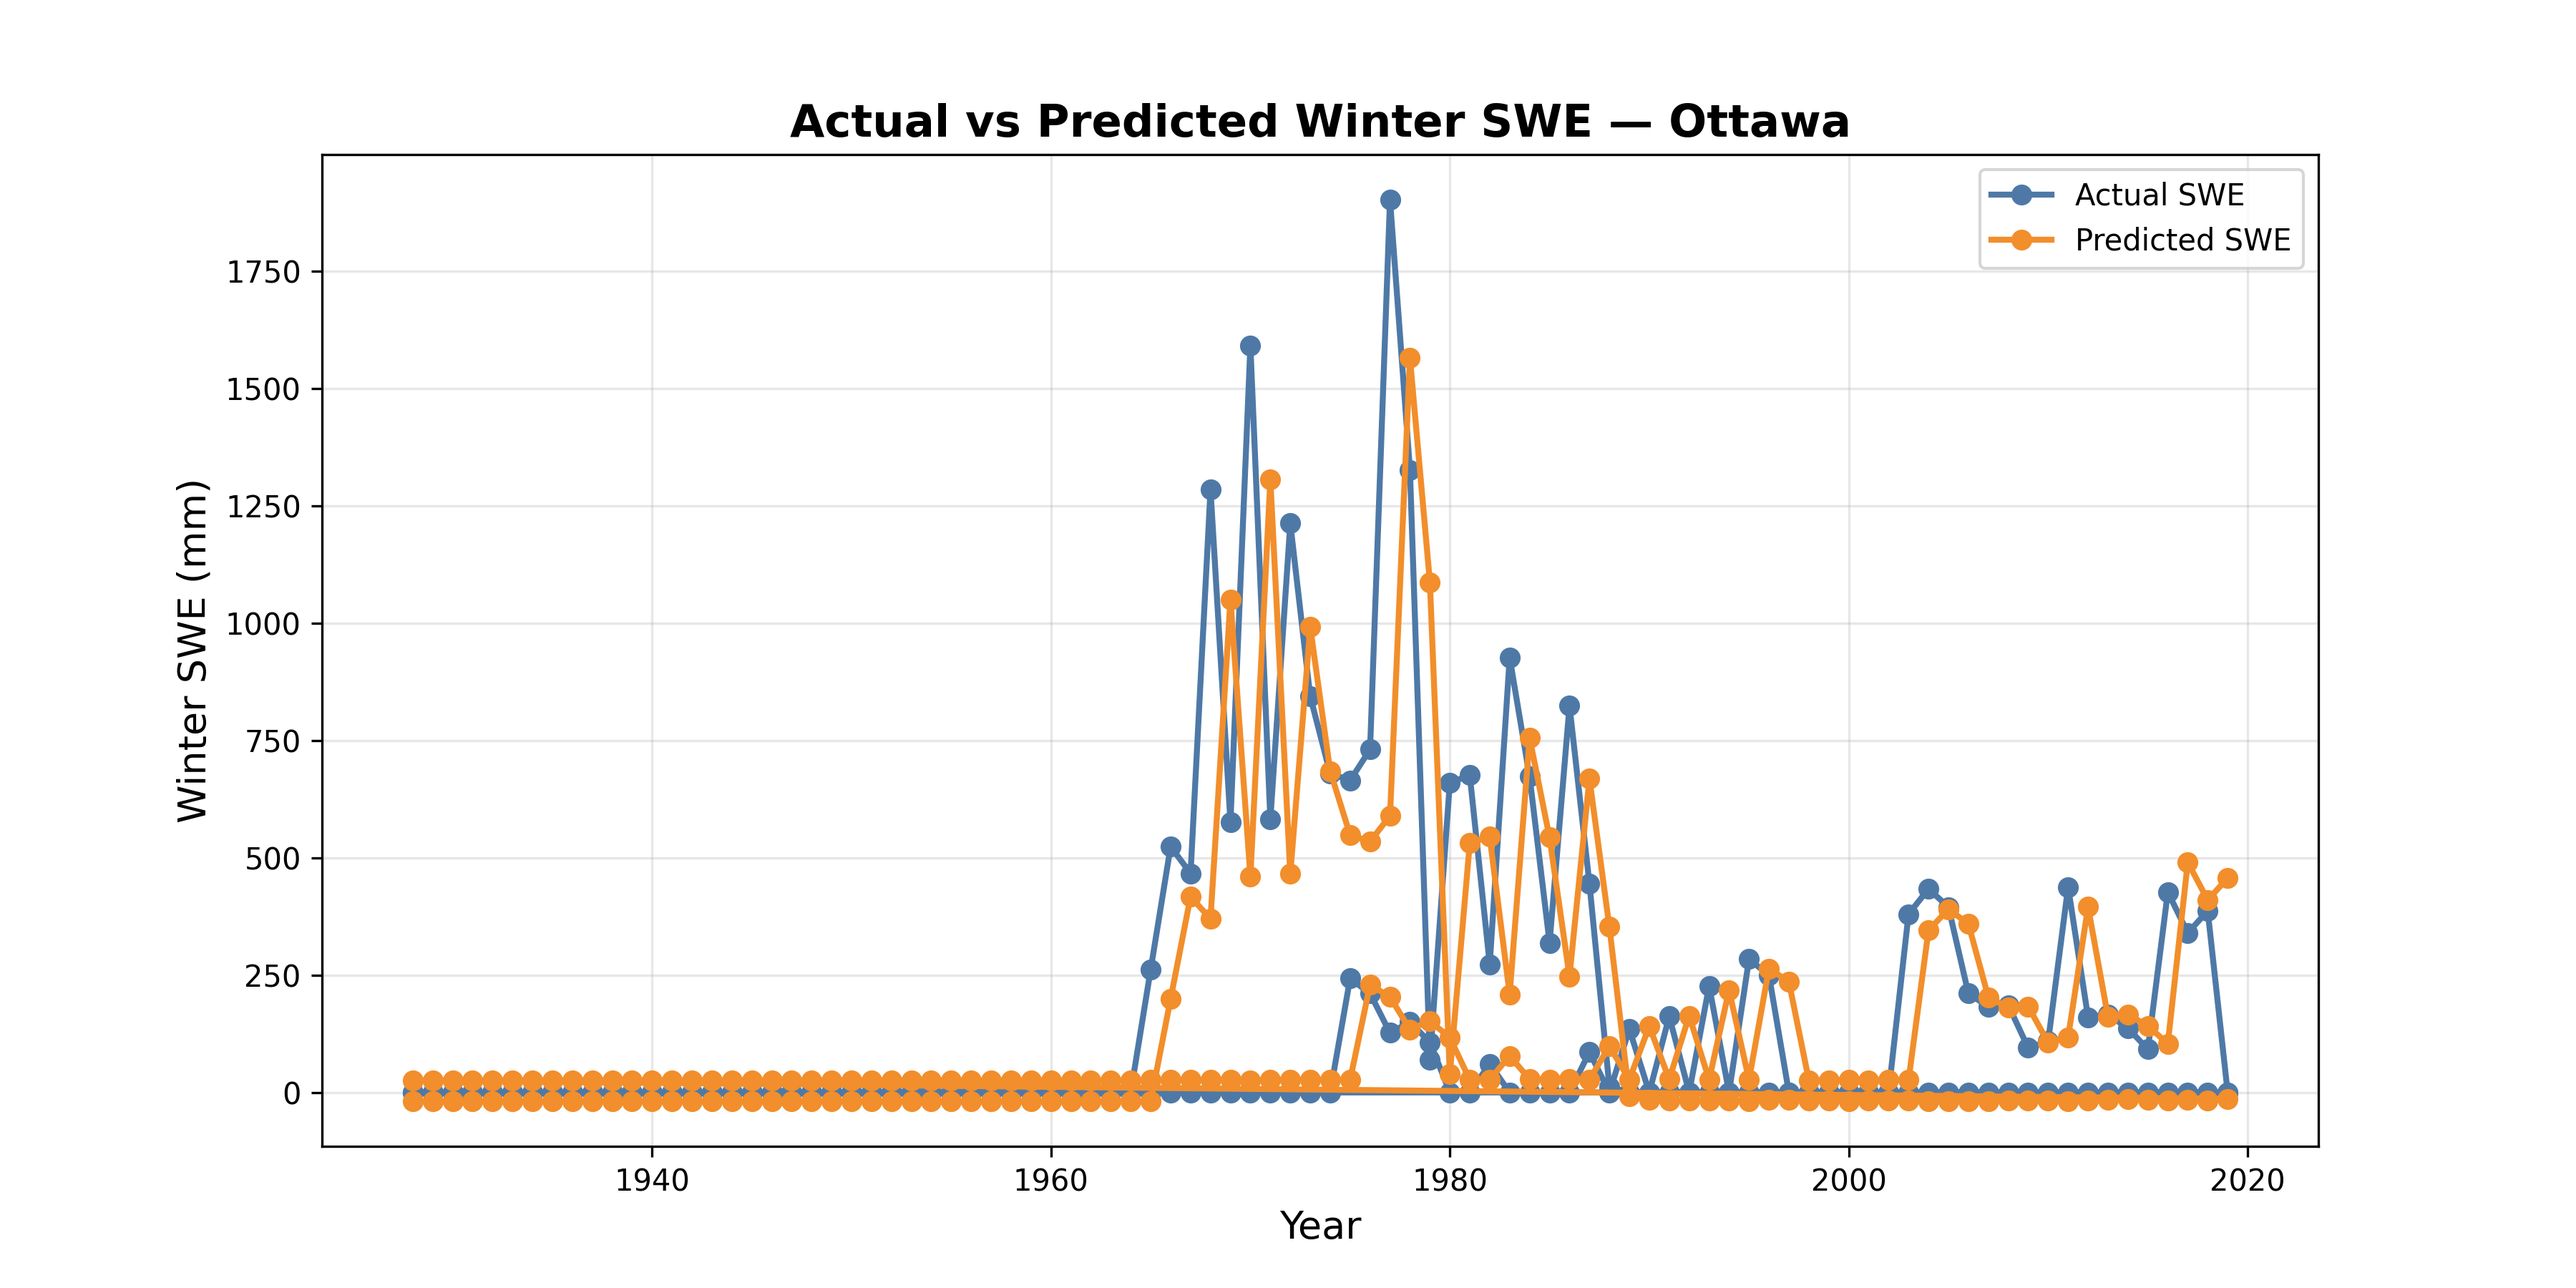
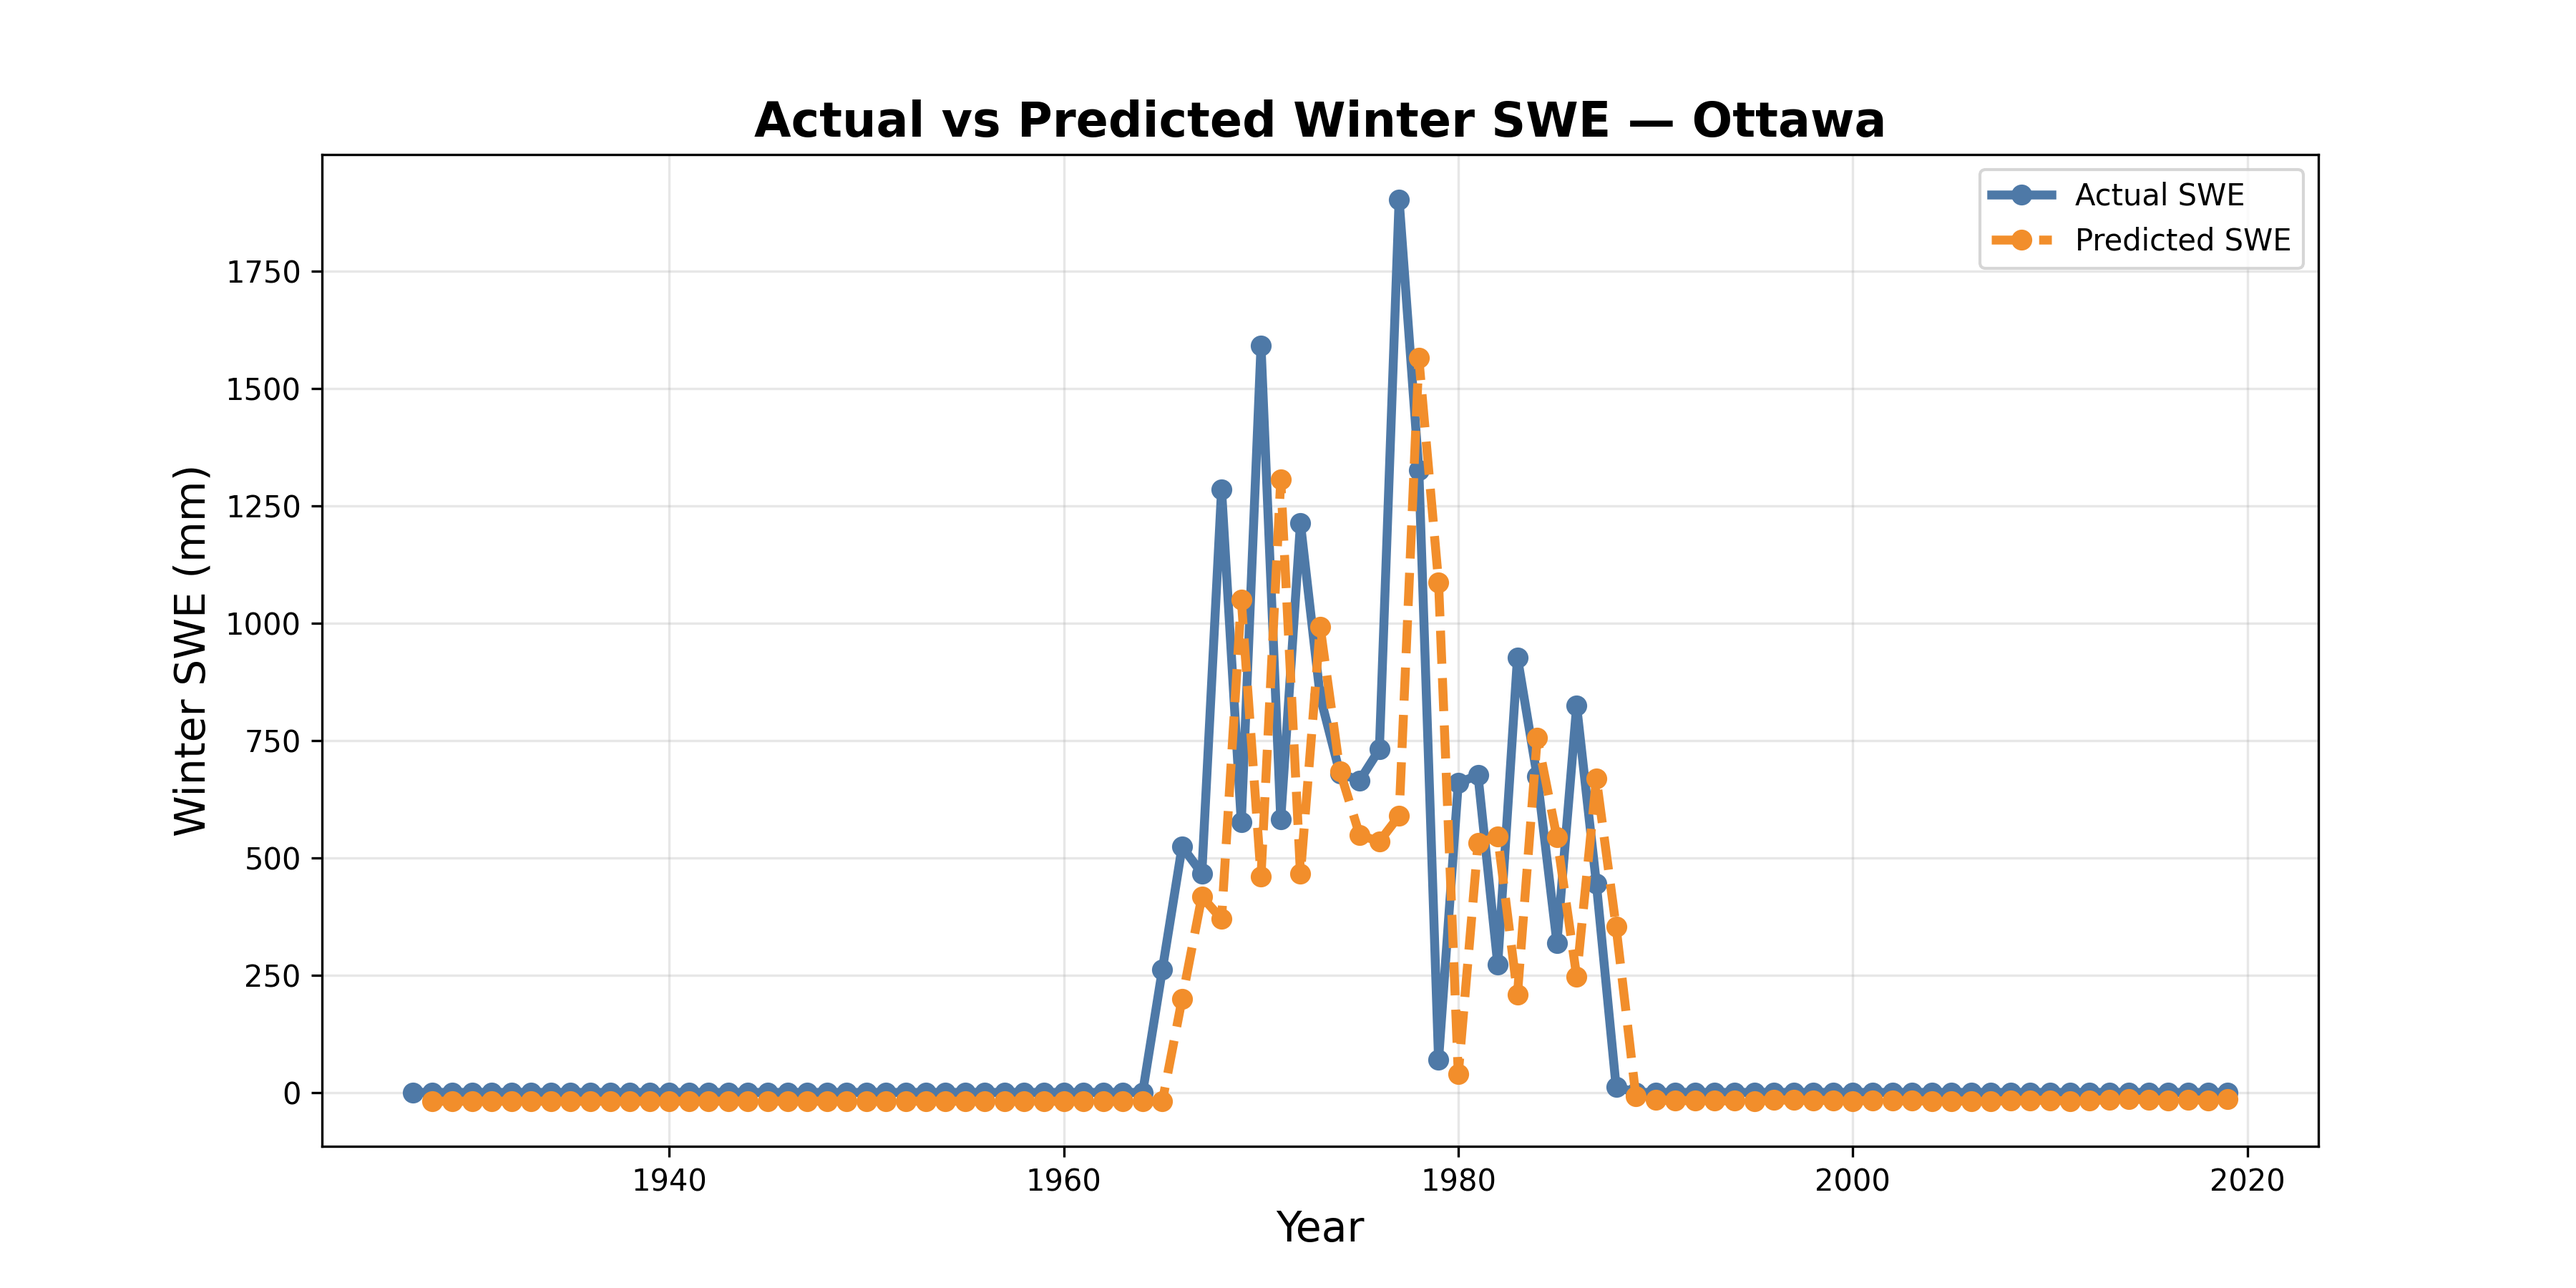
ottawa prediction fix

diff --git a/snow_prediction.py b/snow_prediction.py
@@ -320,61 +320,101 @@ def plot_feature_importance_linear(model, feature_names):
     print(f"✓ Saved feature importance plot: {out_path}")
 
 # ========================================================================
-# PREDICTIVE BLOCK 7 — Per-City Prediction Plot (OTTAWA)
+# PREDICTIVE BLOCK 7 — Clean Per-City Prediction Plot (OTTAWA)
 # ========================================================================
 
 def plot_city_predictions(merged_df, model, features_df, city_name="OTTAWA"):
     """
-    Plots actual vs predicted SWE over time for a specific city.
-    Uses the model to generate predictions across all years for that city.
+    Plots actual vs predicted SWE for a specific city using a single
+    dominant station to avoid duplicates. No forecasting. No double data.
     """
 
-    # Filter merged dataset for OTTAWA-like stations
+    # -----------------------------------------------------------
+    # 1. Find all stations matching the city name
+    # -----------------------------------------------------------
     city_df = merged_df[merged_df["station_name"].str.contains(city_name, case=False, na=False)]
 
     if city_df.empty:
         print(f"⚠ No station found for city name containing '{city_name}'.")
         return
 
-    station_ids = city_df["station_index"].unique()
+    # Choose the station with the most years of data (prevents duplicates)
+    station_counts = city_df["station_index"].value_counts()
+    best_station = station_counts.idxmax()
 
-    # Pull feature rows for these stations
-    city_features = features_df[features_df["station_index"].isin(station_ids)].copy()
+    print(f"✓ Using station {best_station} for {city_name}")
 
-    if city_features.empty:
-        print(f"⚠ No feature rows found for {city_name}.")
+    # -----------------------------------------------------------
+    # 2. Extract ACTUAL values (merged_df)
+    # -----------------------------------------------------------
+    city_actual = (
+        merged_df[merged_df["station_index"] == best_station]
+        .sort_values("year")[["year", "snw_total"]]
+        .drop_duplicates(subset="year")
+    )
+
+    # -----------------------------------------------------------
+    # 3. Extract PREDICTED values (features_df)
+    # -----------------------------------------------------------
+    city_pred = (
+        features_df[features_df["station_index"] == best_station]
+        .sort_values("year")
+        .drop_duplicates(subset="year")
+    )
+
+    if city_pred.empty:
+        print(f"⚠ No feature rows available for predictions for {city_name}.")
         return
 
-    # Extract input features
-    X_city = city_features[["lat", "lon", "elevation", "last_year_swe", "neighbor_last_year_swe"]].values
+    # Build model input matrix
+    feature_cols = ["lat", "lon", "elevation", "last_year_swe", "neighbor_last_year_swe"]
+    feature_cols = [c for c in feature_cols if c in city_pred.columns]
 
-    # Predict using model
-    city_features["prediction"] = model.predict(X_city)
+    if not feature_cols:
+        print(f"⚠ Missing necessary feature columns for prediction.")
+        print("Available:", city_pred.columns.tolist())
+        return
 
-    # Plot
+    X_city = city_pred[feature_cols].values
+    city_pred["prediction"] = model.predict(X_city)
+
+    # -----------------------------------------------------------
+    # 4. Merge ACTUAL + PREDICTED (inner join on year)
+    # -----------------------------------------------------------
+    merged_plot = pd.merge(city_actual, city_pred[["year", "prediction"]], on="year", how="inner")
+
+    if merged_plot.empty:
+        print(f"⚠ No overlapping years between actual and predicted data for {city_name}.")
+        return
+
+    # -----------------------------------------------------------
+    # 5. Final Plot (no duplicates, no extra lines)
+    # -----------------------------------------------------------
     plt.figure(figsize=(12, 6))
 
     plt.plot(
-        city_features["year"],
-        city_features["snw_total"],
+        merged_plot["year"],
+        merged_plot["snw_total"],
         marker="o",
-        linewidth=2,
-        label="Actual SWE",
-        color="#4E79A7"
+        linewidth=3,
+        color="#4E79A7",
+        label="Actual SWE"
     )
 
     plt.plot(
-        city_features["year"],
-        city_features["prediction"],
+        merged_plot["year"],
+        merged_plot["prediction"],
         marker="o",
-        linewidth=2,
-        label="Predicted SWE",
-        color="#F28E2B"
+        linewidth=3,
+        linestyle="--",
+        color="#F28E2B",
+        label="Predicted SWE"
     )
 
-    plt.title(f"Actual vs Predicted Winter SWE — {city_name.title()}", fontsize=15, fontweight="bold")
-    plt.xlabel("Year", fontsize=13)
-    plt.ylabel("Winter SWE (mm)", fontsize=13)
+    plt.title(f"Actual vs Predicted Winter SWE — {city_name.title()}",
+              fontsize=16, fontweight="bold")
+    plt.xlabel("Year", fontsize=14)
+    plt.ylabel("Winter SWE (mm)", fontsize=14)
     plt.grid(alpha=0.3)
     plt.legend()
 
@@ -382,7 +422,8 @@ def plot_city_predictions(merged_df, model, features_df, city_name="OTTAWA"):
     plt.savefig(out_path, dpi=300)
     plt.close()
 
-    print(f"✓ Saved {city_name.title()} prediction plot: {out_path}")
+    print(f"✓ Saved clean {city_name.title()} prediction plot: {out_path}")
+
 
 
 
